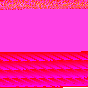
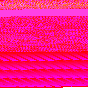
vertices, normals and faces

diff --git a/objimg.js b/objimg.js
@@ -29,6 +29,7 @@
 			var normals = new Array(this.getPixelValue(pixelIndex++));
 			var faces = new Array(this.getPixelValue(pixelIndex++));
 			var multiplicator = this.getPixelValue(pixelIndex++);
+
 			var pivot = {
 				x: this.getPixelValue(pixelIndex++) / multiplicator,
 				y: this.getPixelValue(pixelIndex++) / multiplicator,
@@ -100,12 +101,6 @@
 
 			};
 
-			// var center = {
-			// 	x: bounds.min.x + ((bounds.max.x - bounds.min.x) / 2),
-			// 	y: bounds.min.y + ((bounds.max.y - bounds.min.y) / 2),
-			// 	z: bounds.min.z + ((bounds.max.z - bounds.min.z) / 2)
-			// };
-
 			for( var vertex = 0, length = vertices.length; vertex < length; vertex++ ){
 
 				vertices[vertex].x -= pivot.x;
@@ -114,11 +109,21 @@
 
 			};
 
-			for( var texture = 0, length = textures.length; texture < length; texture++, pixelIndex++ ){
+			for( var texture = 0, length = textures.length; texture < length; texture++, pixelIndex += 2 ){
 
 			};
 
-			for( var normal = 0, length = normals.length; normal < length; normal++, pixelIndex++ ){
+			for( var normal = 0, length = normals.length; normal < length; normal++, pixelIndex += 3 ){
+
+				var x = (this.getPixelValue(pixelIndex) / multiplicator) - 1;
+				var y = (this.getPixelValue(pixelIndex + 1) / multiplicator) - 1;
+				var z = (this.getPixelValue(pixelIndex + 2) / multiplicator) - 1;
+
+				normals[normal] = {
+					x: x,
+					y: y,
+					z: z
+				};
 
 			};
 
@@ -128,11 +133,24 @@
 				var vb = this.getPixelValue(pixelIndex + 1);
 				var vc = this.getPixelValue(pixelIndex + 2);
 
+				var ta = this.getPixelValue(pixelIndex + 3);
+				var tb = this.getPixelValue(pixelIndex + 4);
+				var tc = this.getPixelValue(pixelIndex + 5);
+
+				var na = this.getPixelValue(pixelIndex + 6);
+				var nb = this.getPixelValue(pixelIndex + 7);
+				var nc = this.getPixelValue(pixelIndex + 8);
+
 				faces[face] = {
 					vertices: {
 						a: va,
 						b: vb,
 						c: vc
+					},
+					normals: {
+						a: na,
+						b: nb,
+						c: nc
 					}
 				};
 
@@ -140,6 +158,7 @@
 
 			return {
 				vertices: vertices,
+				normals: normals,
 				faces: faces
 			};
 
@@ -295,19 +314,19 @@
 
 				faces.push({
 					vertices: {
-						a: parseInt(a[0]),
-						b: parseInt(b[0]),
-						c: parseInt(c[0])
+						a: parseInt(a[0]) - 1,
+						b: parseInt(b[0]) - 1,
+						c: parseInt(c[0]) - 1
 					},
 					textures: {
-						a: parseInt(a[1]),
-						b: parseInt(b[1]),
-						c: parseInt(c[1])
+						a: parseInt(a[1]) - 1,
+						b: parseInt(b[1]) - 1,
+						c: parseInt(c[1]) - 1
 					},
 					normals: {
-						a: parseInt(a[2]),
-						b: parseInt(b[2]),
-						c: parseInt(c[2])
+						a: parseInt(a[2]) - 1,
+						b: parseInt(b[2]) - 1,
+						c: parseInt(c[2]) - 1
 					}
 				});
 
@@ -423,15 +442,21 @@
 
 		for( var normal = 0, length = normals.length; normal < length; normal++ ){
 
-			context.fillStyle = "rgba(255, " + ((normals[normal].x - (normals[normal].x % 255)) / 255) + ", " + (normals[normal].x % 255) + ", 1)";
+			var xColor = OBJImg.fn.getColorFromValue((normals[normal].x + 1) * multiplicator);
+
+			context.fillStyle = "rgba(" + xColor.r + ", " + xColor.g + ", " + xColor.b + ", 1)";
 			context.fillRect(pixelIndex % square, Math.floor(pixelIndex / square), 1, 1);
 			pixelIndex++;
 
-			context.fillStyle = "rgba(255, " + ((normals[normal].y - (normals[normal].y % 255)) / 255) + ", " + (normals[normal].y % 255) + ", 1)";
+			var yColor = OBJImg.fn.getColorFromValue((normals[normal].y + 1) * multiplicator);
+
+			context.fillStyle = "rgba(" + yColor.r + ", " + yColor.g + ", " + yColor.b + ", 1)";
 			context.fillRect(pixelIndex % square, Math.floor(pixelIndex / square), 1, 1);
 			pixelIndex++;
 
-			context.fillStyle = "rgba(255, " + ((normals[normal].z - (normals[normal].z % 255)) / 255) + ", " + (normals[normal].z % 255) + ", 1)";
+			var zColor = OBJImg.fn.getColorFromValue((normals[normal].z + 1) * multiplicator);
+
+			context.fillStyle = "rgba(" + zColor.r + ", " + zColor.g + ", " + zColor.b + ", 1)";
 			context.fillRect(pixelIndex % square, Math.floor(pixelIndex / square), 1, 1);
 			pixelIndex++;
 
@@ -495,7 +520,7 @@
 
 		};
 
-		var datas = context.getImageData(0, 1, square, square);
+		// var datas = context.getImageData(0, 1, square, square);
 		// var datas = canvas.toDataURL("image/png");
 
 	};

diff --git a/index.html b/index.html
@@ -70,12 +70,16 @@
 			var ambient = new THREE.AmbientLight(0x000000);
 			scene.add(ambient);
 
+			var light = new THREE.PointLight(0xFFFFFF);
+			light.position.set(5, 5, 5);
+			scene.add(light);
+
 			var image = new Image();
 
 			var generatedObject = new Object();
 
-			var imageFile = "cube";
-			var objFile = "cube";
+			var imageFile = "tree";
+			var objFile = "tree";
 
 			var xhr = new XMLHttpRequest();
 			xhr.open("GET", "models/" + objFile + ".obj", false);
@@ -97,41 +101,41 @@
 				
 				};
 
+				// for( var normal = 0, length = generatedObject.datas.normals.length; normal < length; normal++ ){
+
+				// 	generatedObject.geometry.normals.push(new THREE.Vector3(generatedObject.datas.normals[normal]))
+
+				// };
+
 				for( var face = 0, length = generatedObject.datas.faces.length; face < length; face++ ){
 
-					var vertexA = /*generatedObject.geometry.vertices[*/generatedObject.datas.faces[face].vertices.a/*]*/;
-					var vertexB = /*generatedObject.geometry.vertices[*/generatedObject.datas.faces[face].vertices.b/*]*/;
-					var vertexC = /*generatedObject.geometry.vertices[*/generatedObject.datas.faces[face].vertices.c/*]*/;
+					var vertexA = generatedObject.datas.faces[face].vertices.a;
+					var vertexB = generatedObject.datas.faces[face].vertices.b;
+					var vertexC = generatedObject.datas.faces[face].vertices.c;
 
-					console.log(vertexA, vertexB, vertexC)
+					var normalA = generatedObject.datas.normals[generatedObject.datas.faces[face].normals.a];
+					var normalB = generatedObject.datas.normals[generatedObject.datas.faces[face].normals.b];
+					var normalC = generatedObject.datas.normals[generatedObject.datas.faces[face].normals.c];
 
-					generatedObject.geometry.faces.push(new THREE.Face3(vertexA, vertexB, vertexC));
+					generatedObject.geometry.faces.push(new THREE.Face3(vertexA, vertexB, vertexC, [normalA, normalB, normalC]));
 
 				};
 
-				console.log( generatedObject )
-
+				// generatedObject.geometry.computeFaceNormals();
 				generatedObject.geometry.computeBoundingBox();
+
+				console.log( generatedObject );
 
 				var size = Math.abs(generatedObject.geometry.boundingBox.min.x - generatedObject.geometry.boundingBox.max.x);
 
-				console.log(size);
-
 				camera.position.set(0, 0, size * 2);
 
-				generatedObject.material = new THREE.PointCloudMaterial({
-					color: 0xFF0000,
-					size: 2,
-					sizeAttenuation: false
-				});
-
-				generatedObject.mesh = new THREE.PointCloud(generatedObject.geometry, generatedObject.material);
+				generatedObject.mesh = new THREE.Mesh(generatedObject.geometry, new THREE.MeshPhongMaterial({
+					side: THREE.DoubleSide,
+					lights: true
+				}));
 
 				scene.add(generatedObject.mesh);
-
-				generatedObject.meshBis = new THREE.Mesh(generatedObject.geometry.clone(), new THREE.MeshBasicMaterial({
-					color: 0xFF0000
-				}));
 
 				// Source
 
@@ -140,9 +144,9 @@
 				loader.load("models/" + imageFile + ".obj", function( object ){
 
 					generatedObject.source = object;
-					generatedObject.source.children[0].material.wireframe = true;
+					// generatedObject.source.children[0].material.wireframe = true;
 
-					scene.add(generatedObject.source);
+					// scene.add(generatedObject.source);
 
 				});
 
@@ -156,8 +160,8 @@
 
 				if( generatedObject.mesh ){
 
-					// generatedObject.mesh.rotateOnAxis(new THREE.Vector3(0, 0.2, 0), Math.PI / 180);
-					// generatedObject.source.rotateOnAxis(new THREE.Vector3(0, 0.2, 0), Math.PI / 180);
+					generatedObject.mesh.rotateOnAxis(new THREE.Vector3(0, 1, 0), Math.PI / 180);
+					generatedObject.source.rotateOnAxis(new THREE.Vector3(0, 1, 0), Math.PI / 180);
 
 				};
 
